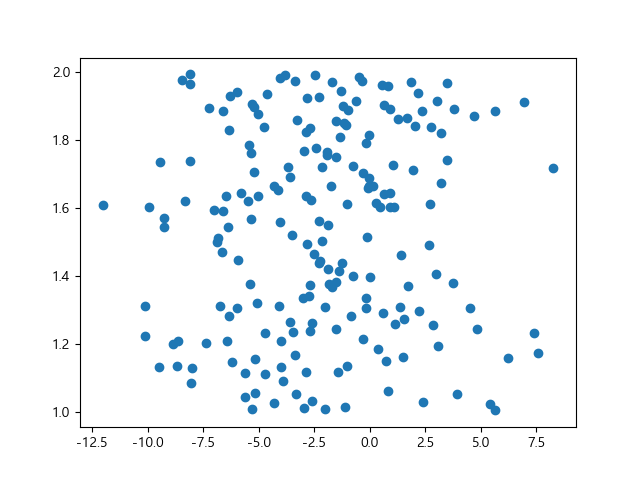
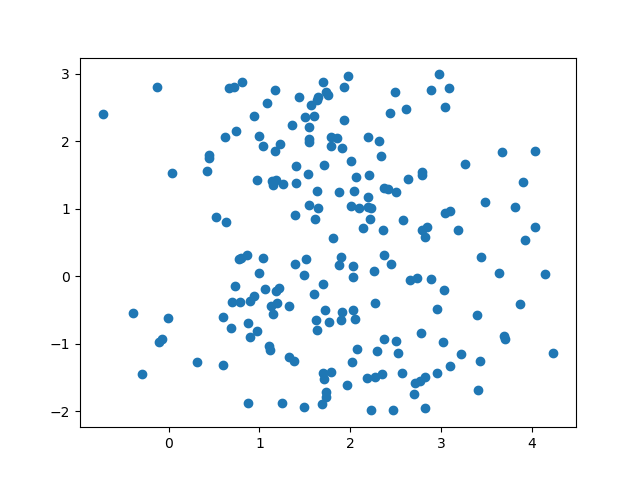
Python FlaskWeb 실습(산점도 출력)

diff --git a/07.FlaskWeb/templates/99.scatter_form.html b/07.FlaskWeb/templates/99.scatter_form.html
@@ -1,0 +1,42 @@
+<!DOCTYPE html>
+<html lang="en">
+<head>
+    <meta charset="UTF-8">
+    <meta name="viewport" content="width=device-width, initial-scale=1.0">
+    <title>Scatter</title>
+    <style>
+        td { text-align: center; padding: 5px; }
+    </style>
+</head>
+<body style="margin: 40px;">
+    <h2>산점도</h2>
+    <hr>
+    <form action="/scatter" method="post">
+        <table>
+            <tr>
+                <td>갯수(num)</td>
+                <td><input type="text" name="num"></td>
+            </tr>
+            <tr>
+                <td>평균(avg)</td>
+                <td><input type="text" name="avg"></td>
+            </tr>
+            <tr>
+                <td>표준편차(std)</td>
+                <td><input type="text" name="std""></td>
+            </tr>
+            <tr>
+                <td>최소값(min)</td>
+                <td><input type="text" name="min""></td>
+            </tr>
+            <tr>
+                <td>최대값(max)</td>
+                <td><input type="text" name="max""></td>
+            </tr>
+            <tr>
+                <td colspan="2"><input type="submit" value="제출"></td>
+            </tr>
+        </table>
+    </form>
+</body>
+</html>

diff --git a/07.FlaskWeb/templates/99.scatter_res.html b/07.FlaskWeb/templates/99.scatter_res.html
@@ -3,9 +3,22 @@
 <head>
     <meta charset="UTF-8">
     <meta name="viewport" content="width=device-width, initial-scale=1.0">
-    <title>Scatter</title>
+    <title>산점도</title>
 </head>
 <body style="margin: 40px;">
-    <img src="{{url_for('static', filename='img/scatter.png', q=mtime)}}" height="400">
+    <h2>산점도</h2>
+    <hr>
+    <img src="{{url_for('static', filename='img/scatter.png')}}">
+    <!-- <h4>X축: 정규분포(평균={{avg}}, 표준편차={{std}})</h4>
+    <h4>Y축: 균등분포(최소={{min}}, 최대={{max}})</h4> -->
+    <!--scatter.py파일에서 
+        return render_template('99.scatter_res.html', avg=avg, std=std, min=min, max=max)
+        이렇게 써주면, 해당 파일에서 사용가능(이걸 렌더링 이라고함)
+        -->
+    <h4>X축: 정규분포(평균={{params.avg}}, 표준편차={{params.std}})</h4>
+    <h4>Y축: 균등분포(최소={{params.min}}, 최대={{params.max}})</h4>
+    <!-- 딕셔너리로 파라메타 지정한 경우 위와 같이 불러옴 딕셔너리명.파라메타명 -->
+    <br><br>
+    <button onclick="location.href='/scatter'">재실행</button>
 </body>
 </html>

diff --git a/07.FlaskWeb/99.scatter(teacher).py b/07.FlaskWeb/99.scatter(teacher).py
@@ -1,0 +1,38 @@
+import os
+import numpy as np
+import numpy as np
+import matplotlib.pyplot as plt
+from flask import Flask, render_template, request
+
+
+app = Flask(__name__)
+
+@app.route('/')
+def index():
+    return '''<h1>산점도 그리기</h1>
+                <button onclick="location.href='/scatter'">실행</button>'''
+
+@app.route('/scatter/', methods=['GET', 'POST'])
+def scatter():
+    if request.method == 'GET':
+        return render_template('99.scatter_form.html')
+    else:
+        num = int(request.form['num'])          # 함수이름으로 변수를 두는건 좋지않음
+        avg = float(request.form['avg'])
+        std = float(request.form['std'])
+        min = float(request.form['min'])
+        max = float(request.form['max'])
+        xs = np.random.normal(avg, std, num)        # 평균, 표준편차, 갯수
+        ys = np.random.uniform(min, max, num)       # 최소, 최대, 갯수
+        plt.figure()                                # 그래프 그릴때마다 해주기
+        plt.scatter(xs, ys)                         # 산점도 그림
+        # plt.savefig('../static/img/scatter.png')    # 권하지 않는 방법
+        filename = os.path.join(app.static_folder, 'img/scatter.png')      # static_folder => static위치로 바로 지정
+        plt.savefig(filename)
+        #return render_template('99.scatter_res.html', avg=avg, std=std, min=min, max=max) 파라메타 하나하나 직접 전달
+        params = {'avg':avg, 'std':std, 'min':min, 'max':max}
+        return render_template('99.scatter_res.html', params=params)    # 딕셔너리로 파라메타 전달(파라메타 많을 경우 이 방법 추천)
+
+
+if __name__ == '__main__' :
+    app.run(debug=True)

diff --git a/07.FlaskWeb/99.scatter(me).py b/07.FlaskWeb/99.scatter(me).py
@@ -1,10 +1,7 @@
 import os 
-from flask import Flask, render_template, request
 import numpy as np
-import pandas as pd
 import matplotlib.pyplot as plt
-plt.rcParams['font.family'] = 'Malgun Gothic'
-plt.rcParams['axes.unicode_minus'] = False 
+from flask import Flask, render_template, request
 
 app = Flask(__name__)
 
@@ -12,7 +9,7 @@ app = Flask(__name__)
 def index():
     return '<h1>산점도 그리기</h1>'
 
-@app.route('/scatter/a',methods=['GET','POST'])
+@app.route('/scatter',methods=['GET','POST'])
 def scatter_res():
     if request.method == 'GET':                
         return render_template('99.scatter.html')
@@ -35,4 +32,4 @@ def scatter_res():
 
 
 if __name__ == '__main__':
-    app.run(debug=True)
+    app.run(debug=True)     # debug=True 변경한 사항이 바로 적용
